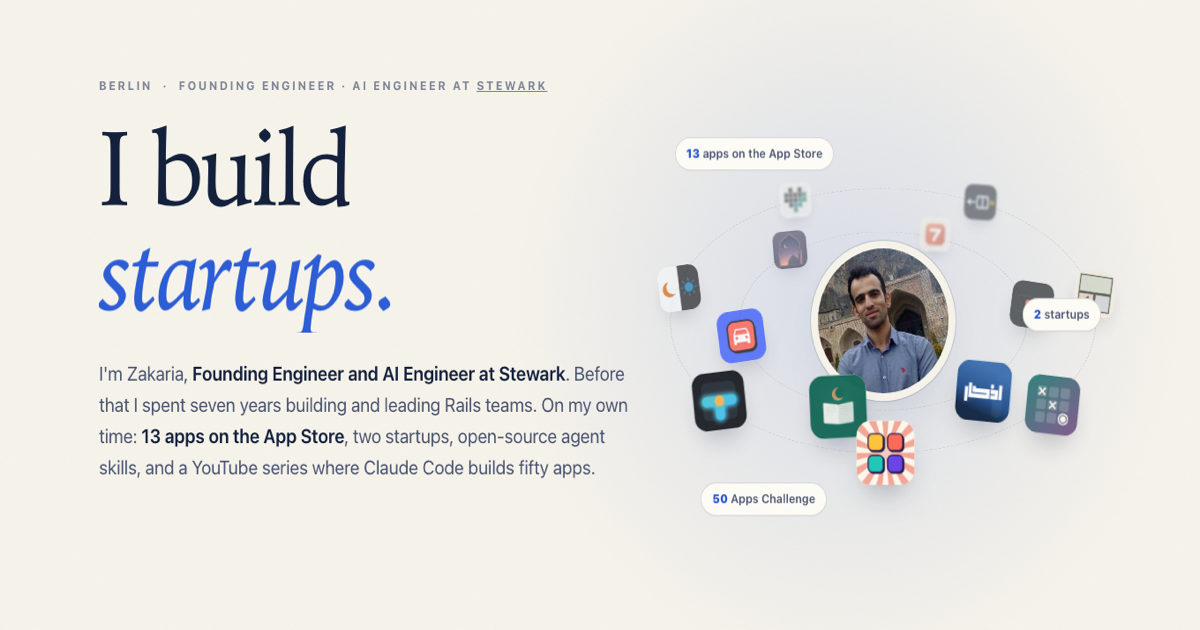
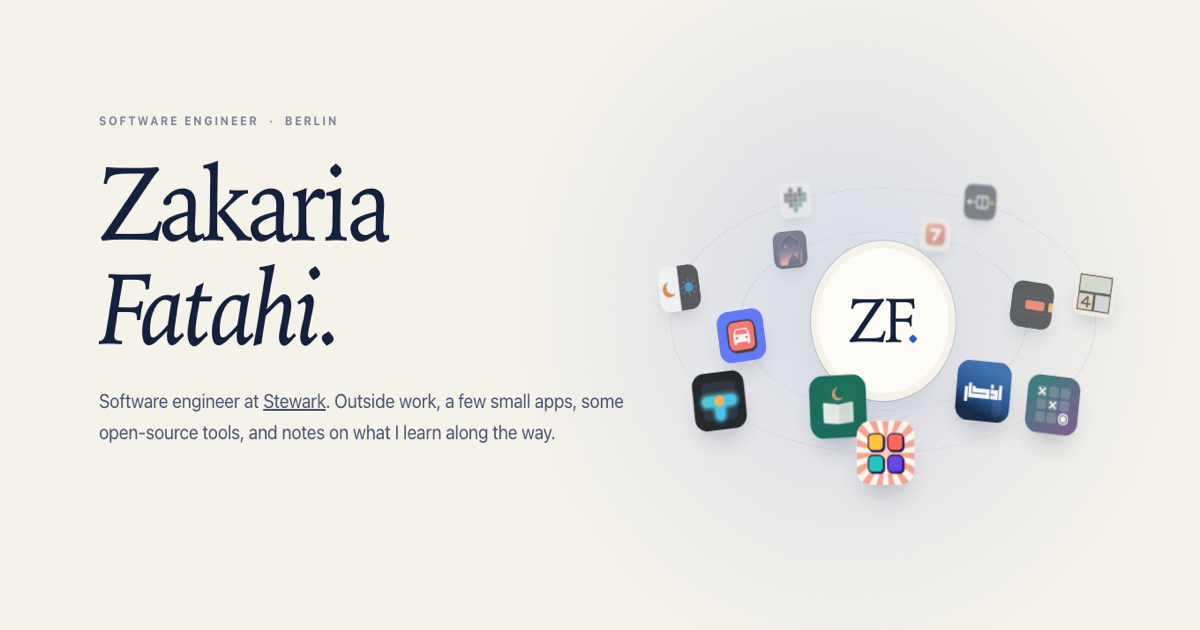
Say less about me: plain words, no photo
The hero is the name, "Software engineer · Berlin" and one plain
sentence. The rolling "I build …" headline, the stat band and the
floating "13 apps / 2 startups" badges are gone, and the app icons
orbit a small ZF mark instead of my photo, which is removed from the
site. Section titles are plain: Side projects, Apps, Open-source
apps, Tools, 50 Apps Challenge, Notes; the bio is three facts. The
social preview image is regenerated to match.

diff --git a/index.html b/index.html
@@ -11,23 +11,20 @@ body_class: home
   <div class="hero-glow" id="glow" aria-hidden="true"></div>
   <div class="wrap hero-grid">
     <div>
-      <div class="label rv" style="--d:1.1s">Berlin &nbsp;·&nbsp; {{ d.now.role }} at <a href="{{ d.now.url }}" style="color:inherit" rel="noopener">{{ d.now.company }}</a></div>
-      <h1><span class="split" data-delay="1.15">I build</span><br><span class="roll" id="roll" aria-live="off"><span class="on">apps.</span><span>startups.</span><span>agent skills.</span><span>open source.</span><span>videos.</span></span></h1>
-      <p class="lede rv" style="--d:1.6s">I'm Zakaria, <b>Founding Engineer and AI Engineer at Stewark</b>. Before that I spent seven years building and leading Rails teams. On my own time: <b>13 apps on the App Store</b>, two startups, open-source agent skills, and a YouTube series where Claude Code builds fifty apps.</p>
+      <div class="label rv" style="--d:1.1s">Software engineer &nbsp;·&nbsp; Berlin</div>
+      <h1><span class="split" data-delay="1.15">Zakaria <em>Fatahi.</em></span></h1>
+      <p class="lede rv" style="--d:1.6s">Software engineer at <a href="{{ d.now.url }}" rel="noopener">{{ d.now.company }}</a>. Outside work, a few small apps, some open-source tools, and notes on what I learn along the way.</p>
       <div class="ctas rv" style="--d:1.75s">
-        <a class="btn solid" href="#work">See the work <span class="arr">→</span></a>
-        <a class="btn" href="{{ d.links.youtube }}" rel="noopener">Watch on YouTube</a>
+        <a class="btn solid" href="#apps">Apps <span class="arr">→</span></a>
+        <a class="btn" href="#writing">Writing</a>
       </div>
     </div>
     <div class="rv" style="--d:1.25s">
       <div class="orbit" id="orbit" aria-hidden="true">
         <div class="ring" style="width:66%;height:66%"></div>
         <div class="ring" style="width:98%;height:98%"></div>
-        <div class="me"><img src="/assets/img/me.jpg" alt=""></div>
+        <div class="me mark"><span>ZF<b>.</b></span></div>
         {% for a in site.data.apps %}<div class="app" data-ring="{% if forloop.index0 < 6 %}0{% else %}1{% endif %}"><img src="/assets/img/apps/{{ a.id }}.png" alt="" loading="eager"></div>{% endfor %}
-        <div class="tag" style="left:2%;top:12%"><b>13</b> apps on the App Store</div>
-        <div class="tag" style="right:0;top:46%;animation-delay:-2s"><b>2</b> startups</div>
-        <div class="tag" style="left:8%;bottom:8%;animation-delay:-4s"><b>50</b> Apps Challenge</div>
       </div>
     </div>
   </div>
@@ -36,17 +33,10 @@ body_class: home
 
 <section id="work" style="padding-top:40px">
   <div class="wrap">
-    <div class="nums">
-      <div class="num rv"><div class="n" data-count="13">13</div><div class="l">apps on the App Store</div></div>
-      <div class="num rv" style="--d:.08s"><div class="n" data-count="2">2</div><div class="l">startups, both live</div></div>
-      <div class="num rv" style="--d:.16s"><div class="n" id="star-total" data-count="300" data-suffix="+">300+</div><div class="l">stars on GitHub</div></div>
-      <div class="num rv" style="--d:.24s"><div class="n" data-count="79">79</div><div class="l">self-verifying agent skills</div></div>
-    </div>
-
-    <div class="now" style="margin-top:110px">
+    <div class="now">
       <div>
         <div class="label rv">Now</div>
-        <h2 class="split">Founding engineer at <em>{{ d.now.company }}.</em></h2>
+        <h2 class="split">At <em>{{ d.now.company }}.</em></h2>
       </div>
       <div class="rv">
         <p>{{ d.now.line }}</p>
@@ -64,8 +54,8 @@ body_class: home
 <section id="startups">
   <div class="wrap">
     <div class="sec-head">
-      <div><div class="label rv">Startups</div><h2 class="split">Things I <em>founded.</em></h2></div>
-      <p class="sec-sub rv">Products I started and run alongside my day job. Both are live.</p>
+      <div><div class="label rv">Startups</div><h2 class="split">Side <em>projects.</em></h2></div>
+      <p class="sec-sub rv">Started alongside the day job.</p>
     </div>
     <div class="startups">
       {% for s in d.startups %}
@@ -79,7 +69,7 @@ body_class: home
       {% endfor %}
     </div>
     <div class="closed">
-      <div class="label rv">Didn't make it</div>
+      <div class="label rv">Closed</div>
       {% for c in d.closed %}
       <div class="closed-row rv" style="--d:{{ forloop.index0 | times: 0.08 }}s">
         <span class="when">{{ c.when }}</span>
@@ -96,8 +86,8 @@ body_class: home
     <div class="shelf-track" id="shelf">
       <div class="shelf-intro">
         <div class="label">On the App Store</div>
-        <h2 style="font-size:clamp(40px,4.6vw,64px)">Thirteen <em>apps</em>, shipped.</h2>
-        <p class="sec-sub">Logic games with provable puzzles, and four apps for Persian speakers. Offline, no account, no tracking.</p>
+        <h2 style="font-size:clamp(40px,4.6vw,64px)"><em>Apps.</em></h2>
+        <p class="sec-sub">Logic games, and a few apps for Persian speakers. Offline, no account, no tracking.</p>
       </div>
       {% for a in games %}
       <div class="appcard tilt">
@@ -125,8 +115,8 @@ body_class: home
 <section id="oss-apps">
   <div class="wrap">
     <div class="sec-head">
-      <div><div class="label rv">Open-source apps</div><h2 class="split">Offline first, <em>source open.</em></h2></div>
-      <p class="sec-sub rv">Small apps for real, specific people. No account, no server, and the code is on GitHub.</p>
+      <div><div class="label rv">Open source</div><h2 class="split">Open-source <em>apps.</em></h2></div>
+      <p class="sec-sub rv">Small apps for specific needs. No account, no server.</p>
     </div>
     <div class="minis">
       {% for a in d.oss_apps %}
@@ -143,8 +133,8 @@ body_class: home
 <section id="open-source">
   <div class="wrap">
     <div class="sec-head">
-      <div><div class="label rv">Open source</div><h2 class="split">Tools I <em>give away.</em></h2></div>
-      <a class="more rv" href="{{ d.links.github }}" rel="noopener">All on GitHub <span>↗</span></a>
+      <div><div class="label rv">Open source</div><h2 class="split"><em>Tools.</em></h2></div>
+      <a class="more rv" href="{{ d.links.github }}" rel="noopener">GitHub <span>↗</span></a>
     </div>
     <div class="rows">
       {% assign colors = "Ruby:#CC342D,Dart:#00B4AB,TypeScript:#3178C6,JavaScript:#E0B000,Python:#3572A5,Shell:#89E051" | split: "," %}
@@ -164,8 +154,8 @@ body_class: home
 <section id="videos" style="background:var(--bg-soft);border-top:1px solid var(--border-soft);border-bottom:1px solid var(--border-soft)">
   <div class="wrap">
     <div class="sec-head">
-      <div><div class="label rv">YouTube · {{ d.youtube.series }}</div><h2 class="split">Fifty apps, <em>built on camera.</em></h2></div>
-      <a class="more rv" href="{{ d.youtube.channel }}" rel="noopener">Subscribe <span>↗</span></a>
+      <div><div class="label rv">YouTube</div><h2 class="split">50 Apps <em>Challenge.</em></h2></div>
+      <a class="more rv" href="{{ d.youtube.channel }}" rel="noopener">YouTube <span>↗</span></a>
     </div>
     <div class="videos">
       {% for v in d.youtube.videos %}
@@ -181,7 +171,7 @@ body_class: home
 <section id="writing">
   <div class="wrap">
     <div class="sec-head">
-      <div><div class="label rv">Writing</div><h2 class="split">Notes from <em>the work.</em></h2></div>
+      <div><div class="label rv">Writing</div><h2 class="split"><em>Notes.</em></h2></div>
       <a class="more rv" href="{{ d.links.persian_blog }}" rel="noopener" lang="fa">وبلاگ فارسی <span>↗</span></a>
     </div>
     <div class="posts">
@@ -201,7 +191,7 @@ body_class: home
   <div class="wrap about">
     <div>
       <div class="label rv">About</div>
-      <p class="bio rv" style="margin-top:18px">I started as a freelancer and a computer teacher in Kermanshah, moved to Berlin, and spent seven years growing from Rails developer to lead at Buzzjective. Today I'm a founding engineer at Stewark, and in my own time I make <em>small, careful apps</em> and the agent skills that help build them.</p>
+      <p class="bio rv" style="margin-top:18px">Started out freelancing and teaching computer classes in Kermanshah, co-founded a small company there, then moved to Berlin and spent seven years with the Rails team at Buzzjective. Now at Stewark.</p>
     </div>
     <div class="timeline" id="timeline">
       <div class="line"><i id="tl-line"></i></div>

diff --git a/assets/css/site.css b/assets/css/site.css
@@ -124,6 +124,11 @@ header.nav.hide{transform:translateY(-100%)}
 .orbit .tag b{color:var(--accent)}
 @keyframes bob{50%{transform:translateY(-8px)}}
 
+/* the quiet mark at the centre of the orbit */
+.orbit .me.mark{display:grid;place-items:center;background:var(--panel)}
+.orbit .me.mark span{font-family:var(--serif);font-size:clamp(34px,5vw,64px);letter-spacing:-.04em;color:var(--text)}
+.orbit .me.mark b{color:var(--accent);font-weight:400}
+
 /* numbers */
 .nums{display:grid;grid-template-columns:repeat(4,minmax(0,1fr));border-top:1px solid var(--border);border-bottom:1px solid var(--border)}
 .num{padding:30px 22px 28px;border-left:1px solid var(--border-soft)}
